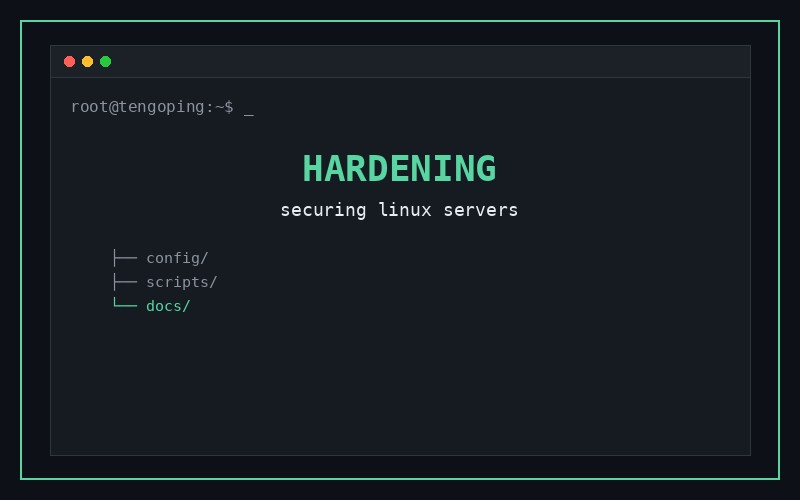
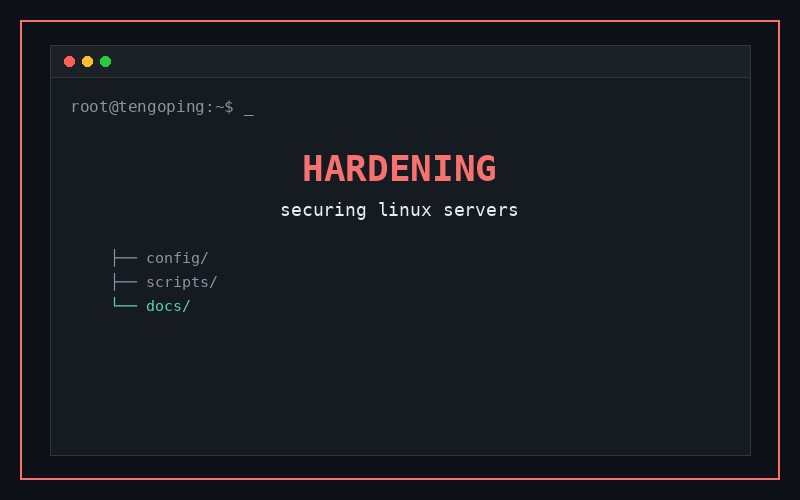
Ajusta hardening a categoria Seguridad y regenera portada

Changed region(s): [[0.0, 0.03, 1.0, 0.96], [0.375, 0.3, 0.625, 0.39]]

diff --git a/scripts/generate-images.py b/scripts/generate-images.py
@@ -88,7 +88,7 @@ ARTICLES = [
      ["├── sshd_config", "├── authorized_keys", "└── fail2ban"]),
     ("linux-systemd.jpg", "SYSTEMD", "gestión de servicios", "Linux",
      ["├── systemctl", "├── journalctl", "└── unit files"]),
-    ("linux-hardening.jpg", "HARDENING", "securing linux servers", "Linux",
+    ("linux-hardening.jpg", "HARDENING", "securing linux servers", "Seguridad",
      ["├── config/", "├── scripts/", "└── docs/"]),
     ("linux-containers.jpg", "PODMAN", "contenedores sin root", "Linux",
      ["├── podman run", "├── Containerfile", "└── pods/"]),

diff --git a/src/content/blog/hardening-basico-servidores-linux.md b/src/content/blog/hardening-basico-servidores-linux.md
@@ -3,8 +3,8 @@ title: 'Hardening básico de servidores Linux'
 description: 'Lista de medidas esenciales para securizar un servidor Linux recién instalado: SSH, usuarios, firewall, kernel y auditoría.'
 author: 'antonio'
 pubDate: 2026-01-22
-category: 'Linux'
-tags: ['Seguridad', 'Hardening', 'SSH', 'Sysadmin']
+category: 'Seguridad'
+tags: ['Linux', 'Hardening', 'SSH', 'Sysadmin']
 image: '../../assets/images/linux-hardening.jpg'
 draft: false
 ---
